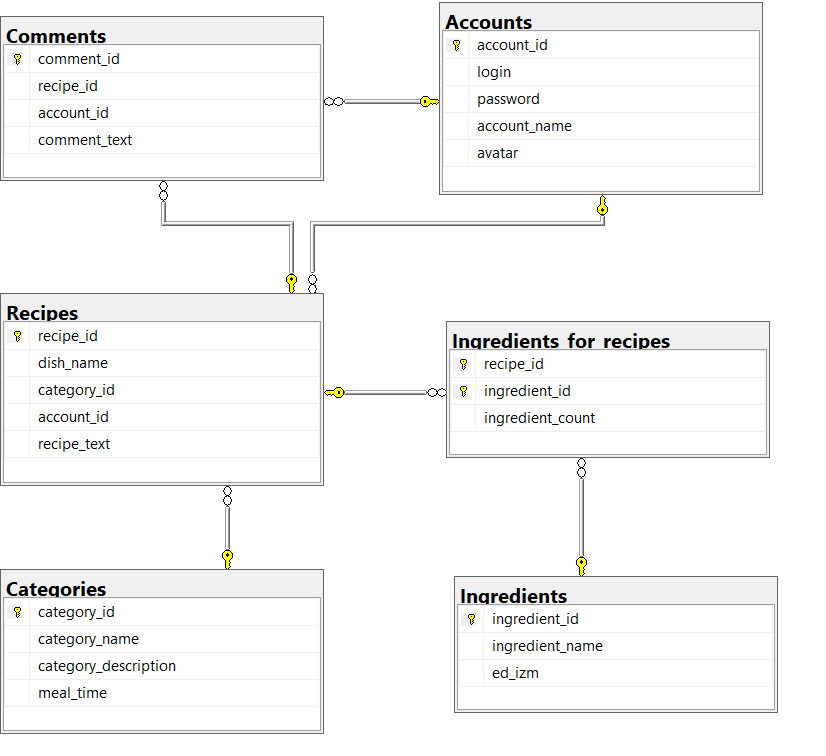
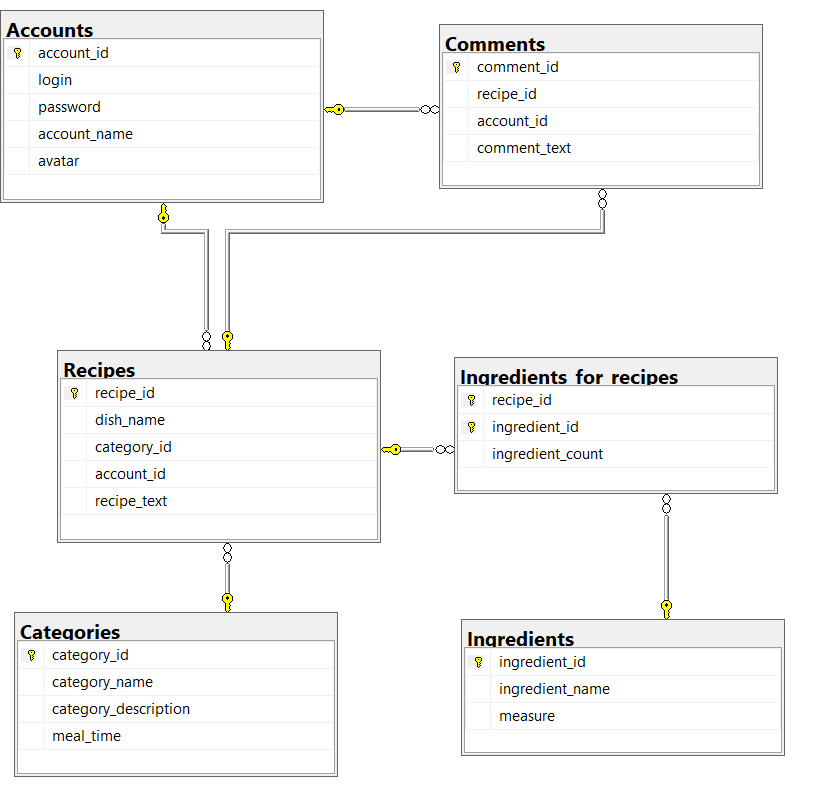
Add models

diff --git a/Models/Recipe.cs b/Models/Recipe.cs
@@ -1,0 +1,39 @@
+using HttpServer_1.Attributes;
+using System;
+using System.Collections.Generic;
+using System.Linq;
+using System.Text;
+using System.Threading.Tasks;
+
+namespace HttpServer_1.Models
+{
+    internal class Recipe
+    {
+        public int Id { get; set; }
+
+        [DBField("dish_name")]
+        public string Name { get; set; }
+
+        [DBField("category_id")]
+        public int CategoryId { get; set; }
+
+        [DBField("account_id")]
+        public int AccountId { get; set; }
+
+        [DBField("recipe_text")]
+        public string RecipeText { get; set; }
+
+        public Recipe(int id, string name, int categoryId, int accountId, string recipeText)
+        {
+            Id = id;
+            Name = name;
+            CategoryId = categoryId;
+            AccountId = accountId;
+            RecipeText = recipeText;
+        }
+
+        public Recipe()
+        {
+        }
+    }
+}

diff --git a/Models/Comment.cs b/Models/Comment.cs
@@ -1,0 +1,36 @@
+using HttpServer_1.Attributes;
+using System;
+using System.Collections.Generic;
+using System.Linq;
+using System.Text;
+using System.Threading.Tasks;
+
+namespace HttpServer_1.Models
+{
+    internal class Comment
+    {
+        
+        public int Id { get; set; }
+
+        [DBField("recipe_id")]
+        public int RecipeId { get; set; }
+
+        [DBField("account_id")]
+        public int AccountId { get; set; }
+
+        [DBField("comment_text")]
+        public string CommentText { get; set; }
+
+        public Comment()
+        {
+        }
+
+        public Comment(int id, int recipeId, int accountId, string commentText)
+        {
+            Id = id;
+            RecipeId = recipeId;
+            AccountId = accountId;
+            CommentText = commentText;
+        }
+    }
+}

diff --git a/Models/Category.cs b/Models/Category.cs
@@ -1,0 +1,35 @@
+using HttpServer_1.Attributes;
+using System;
+using System.Collections.Generic;
+using System.Linq;
+using System.Text;
+using System.Threading.Tasks;
+
+namespace HttpServer_1.Models
+{
+    internal class Category
+    {
+        public int Id { get; set; }
+
+        [DBField("category_name")]
+        public string Name { get; set; }
+
+        [DBField("category_description")]
+        public string Description { get; set; }
+
+        [DBField("meal_time")]
+        public string MealTime { get; set; }
+
+        public Category(int id, string name, string description, string mealTime)
+        {
+            Id = id;
+            Name = name;
+            Description = description;
+            MealTime = mealTime;
+        }
+
+        public Category()
+        {
+        }
+    }
+}

diff --git a/Models/Ingredient.cs b/Models/Ingredient.cs
@@ -1,0 +1,32 @@
+using HttpServer_1.Attributes;
+using HttpServer_1.Controllers;
+using System;
+using System.Collections.Generic;
+using System.Linq;
+using System.Text;
+using System.Threading.Tasks;
+
+namespace HttpServer_1.Models
+{
+    internal class Ingredient
+    {
+        public int Id { get; set; }
+
+        [DBField("ingredient_name")]
+        public string Name { get; set; }
+
+        [DBField("measure")]
+        public string Measure { get; set; }
+
+        public Ingredient(int id, string name, string measure)
+        {
+            Id = id;
+            Name = name;
+            Measure = measure;
+        }
+
+        public Ingredient()
+        {
+        }
+    }
+}

diff --git a/Models/Account.cs b/Models/Account.cs
@@ -17,12 +17,20 @@ namespace HttpServer_1.Models
         [DBField("password")]
         public string Password { get; set; }
 
+        [DBField("account_name")]
+        public string Name { get; set; }
 
-        public Account(int id, string login, string password)
+        [DBField("avatar")]
+        public string Avatar { get; set; }
+
+
+        public Account(int id, string login, string password, string name, string avatar)
         {
             Id = id;
             Login = login;
             Password = password;
+            Name = name;
+            Avatar = avatar;
         }
 
         public Account()
